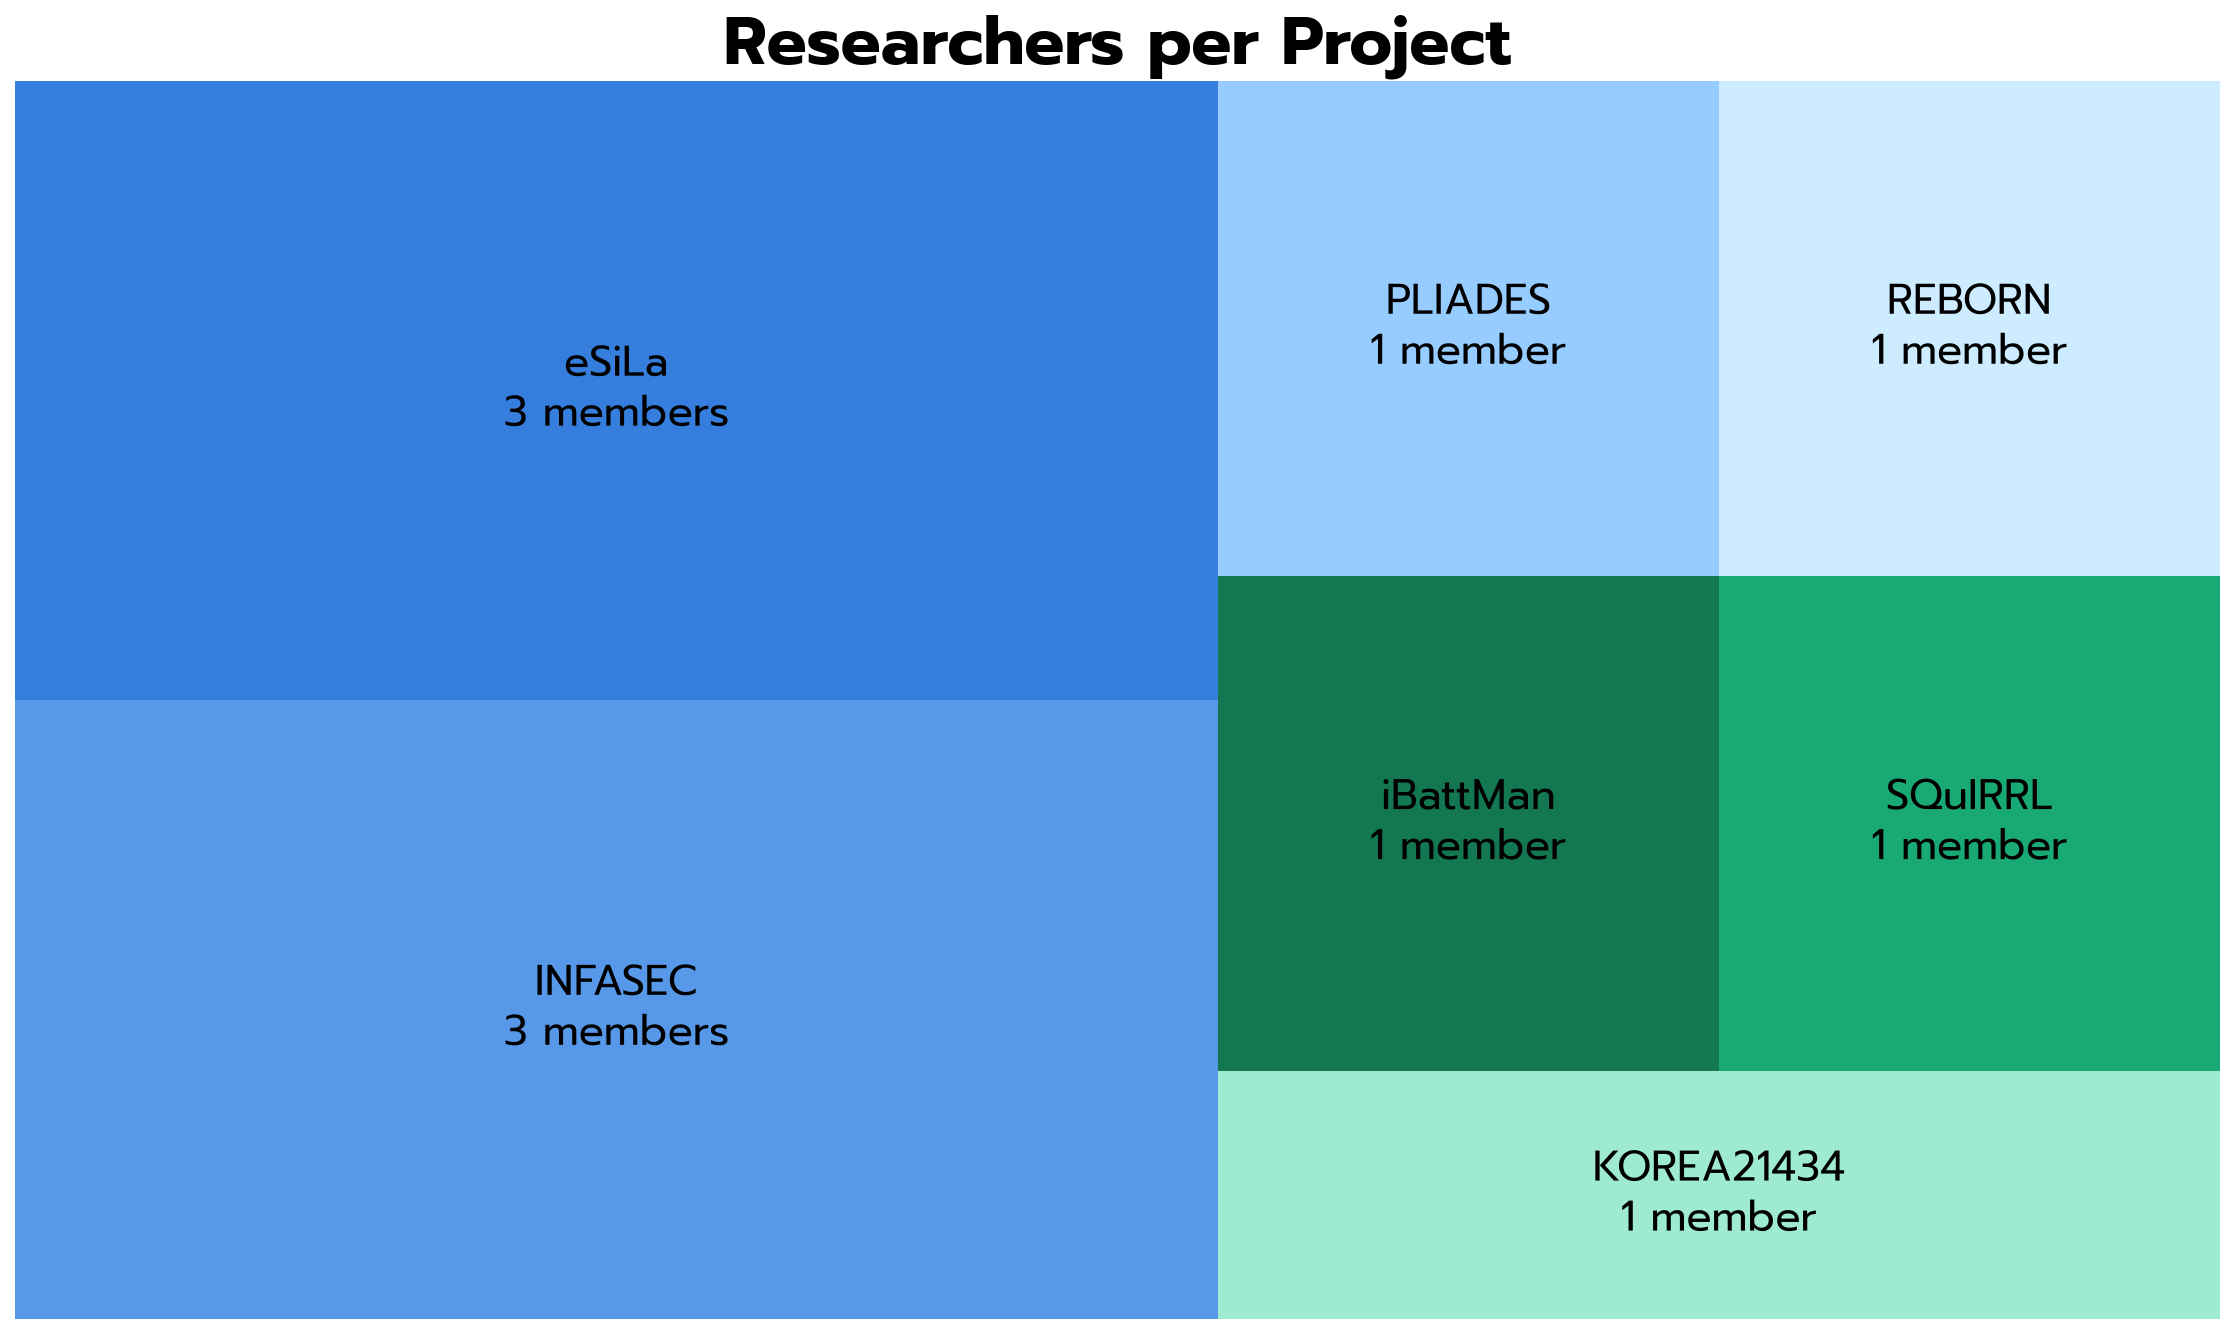
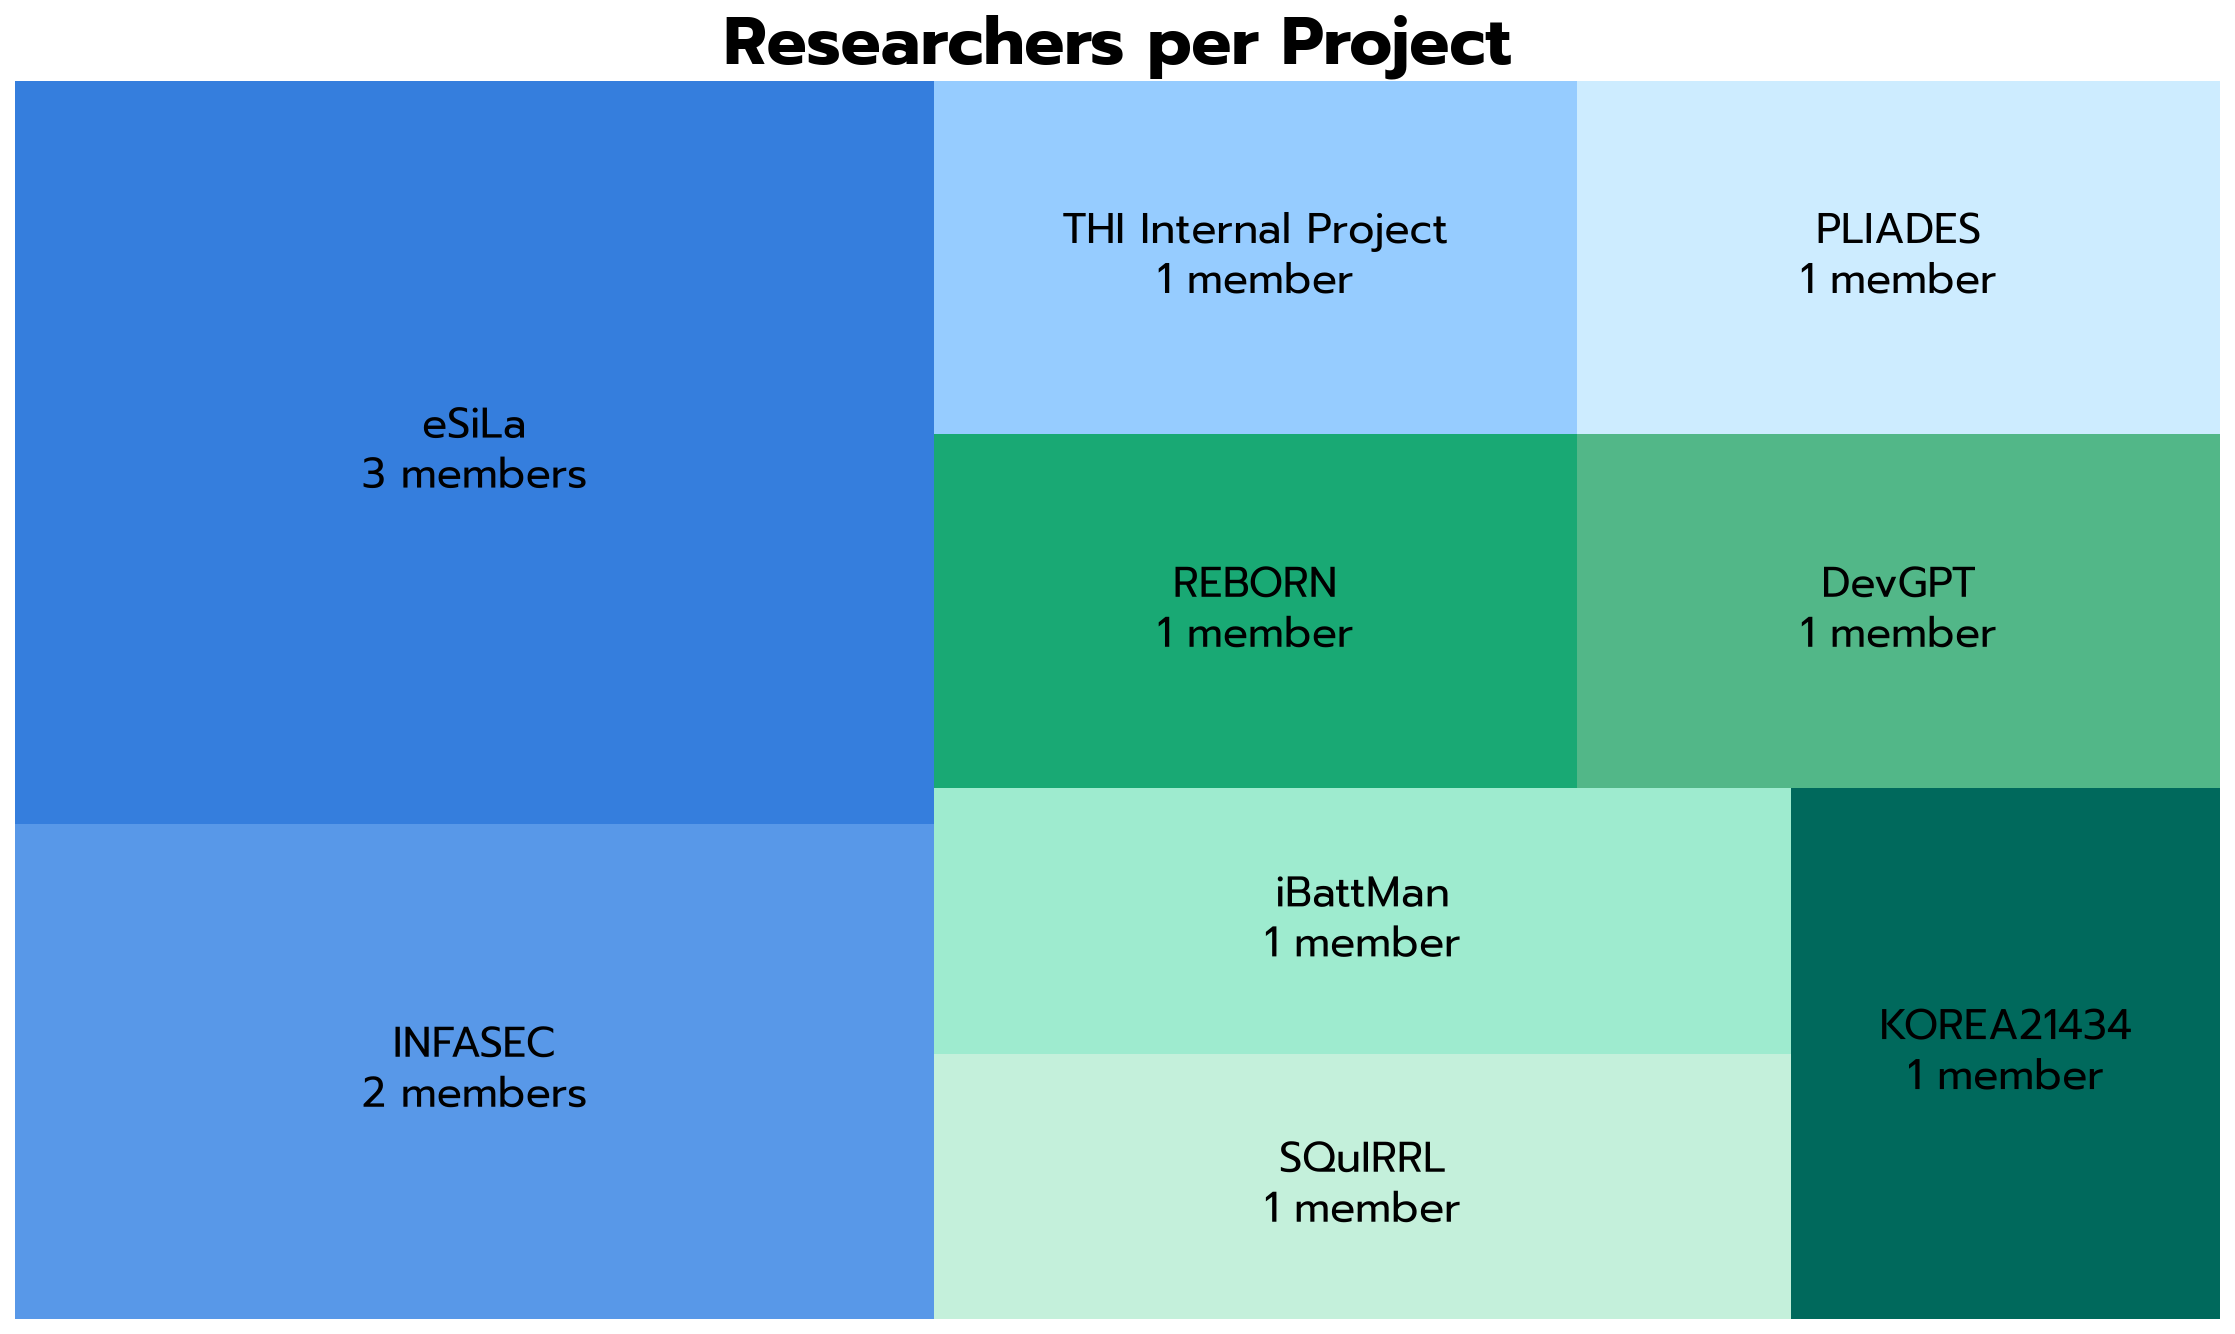
added tina

diff --git a/content/blog/welcome-post.md b/content/blog/welcome-post.md
@@ -30,18 +30,20 @@ Having introduced the group as a whole, we would now like to give each of our me
 The THI Cybersecurity Research Group was founded by **Professor Hof** at the THI.
 {{< /timeline-event >}}
 {{< timeline-event title="Dominik Bayerl joined the research group" img="people/no-photo.svg" >}}
-**Dominik Bayerl**
+
 {{< /timeline-event >}}
 {{< timeline-event title="Tina Volkersdorfer joined the research group" img="people/tina.webp" >}}
-**Tina**
+In her project [PLIADES](https://www.pliades-project.eu/), doctoral researcher **Tina** focuses on security and privacy challenges, including traceability, threat analysis and risk assessment, and identity management across data spaces. Her PhD research extends this further, exploring how threat analysis for automotive risk assessment can be made more efficient and less prone to subjective interpretation. She believes that the most important habits a researcher can develop are simply getting started, discussing results regularly with a supervisor, and actively seeking feedback. At the same time, she has come to recognize that research can be hindered from the outside, whether by stakeholders withholding relevant data or by a lack of transparency in peer review.
+
+**Who shaped her thinking the most**: Nutritionist Niko Rittenau and his clear communication of scientific findings and willingness to revise his own positions in light of new evidence.
 {{< /timeline-event >}}
 {{< timeline-event date="2021" title="Julian Blümke joined the research group" img="people/julian.jpg" >}}
-Doctoral researcher **Julian** works in the project [REBORN](https://reborn-project.eu/) where he is focused on developing a security architecture for a battery system, both for communication within the battery and for the interface between the battery and a cloud server, as well as the secure transition of the battery management system from its first to its second life. What surprised him most about working in research is how much of his time goes into communication and persuasion, convincing stakeholders outside the security sector of the necessity of security features. He would advise anyone starting out to get their academic tool chain clear and set up before diving into their work. And when it comes to research, he keeps in mind that all that glitters is not gold.
+Doctoral researcher **Julian** works on the project [REBORN](https://reborn-project.eu/) where he is focused on developing a security architecture for a battery system, both for communication within the battery and for the interface between the battery and a cloud server, as well as the secure transition of the battery management system from its first to its second life. What surprised him most about working in research is how much of his time goes into communication and persuasion, convincing stakeholders outside the security sector of the necessity of security features. He would advise anyone starting out to get their academic tool chain clear and set up before diving into their work. And when it comes to research, he keeps in mind that all that glitters is not gold.
 
 **His research as a film genre**: A mix of documentary, drama, tragedy, comedy, and hopefully something with a happy ending.
 {{< /timeline-event >}}
 {{< timeline-event title="Jakob Löw joined the research group" img="people/jakob.jpg" >}}
-**Jakob** [eSiLa](https://www.esila.bayern/)
+
 {{< /timeline-event >}}
 {{< timeline-event date="2023" title="Professor Patrizia Heinl joined the research group" img="people/patrizia.webp" >}}
 **Professor Heinl**
@@ -52,13 +54,13 @@ Doctoral researcher **Julian** works in the project [REBORN](https://reborn-proj
 {{< timeline-event title="Vishwa Vasu joined the research group" img="people/vasu.webp" >}}
 **Vishwa Vasu** [eSiLa](https://www.esila.bayern/)
 {{< /timeline-event >}}
-{{< timeline-event title="Claudius Laves joined the research group" img="people/claudi.png" >}}
-**Claudius** works on the EU-funded [iBattMan](https://ibattman.eu/) project as a doctoral researcher, where he develops new cybersecurity concepts for next-generation Battery Management Systems. He is candid about his reservations when it comes to Systematic Literature Reviews, acknowledging that while they are necessary and valuable, he has not warmed up to the method just yet. By nature a night owl, working full-time has taught him to rise early so he can make the most of his afternoons and evenings. When asked what advice he would give his younger self, he laughs off the question, saying it feels like he is still at the beginning himself and hoping his future self will magically appear with some tips.
-
-**The best decision in his academic career**: Taking opportunities and not chickening out.
-{{< /timeline-event >}}
 {{< timeline-event title="Parul Gupta joined the research group" img="people/no-photo.svg" >}}
 **Parul Gupta**
+{{< /timeline-event >}}
+{{< timeline-event title="Claudius Laves joined the research group" img="people/claudi.png" >}}
+**Claudius** works on the EU-funded [iBattMan](https://ibattman.eu/) project as a doctoral researcher, where he develops new cybersecurity concepts for next-generation Battery Management Systems. He is candid about his reservations when it comes to Systematic Literature Reviews, acknowledging that while they are necessary and valuable, he has not warmed up to the method just yet. By nature a night owl, working full-time has taught him to rise early so he can make the most of his afternoons and evenings. When asked what advice he would give his younger self, he laughs off the question, saying it feels like he is still at the beginning of his academic career himself and hoping his future self will magically appear with some tips.
+
+**The best decision in his academic career**: Taking opportunities and not chickening out.
 {{< /timeline-event >}}
 {{< timeline-event title="Prof. Dr. Thomas Hutzelmann joined the research group" img="people/thomas.webp" >}}
 **Professor Hutzelmann**
